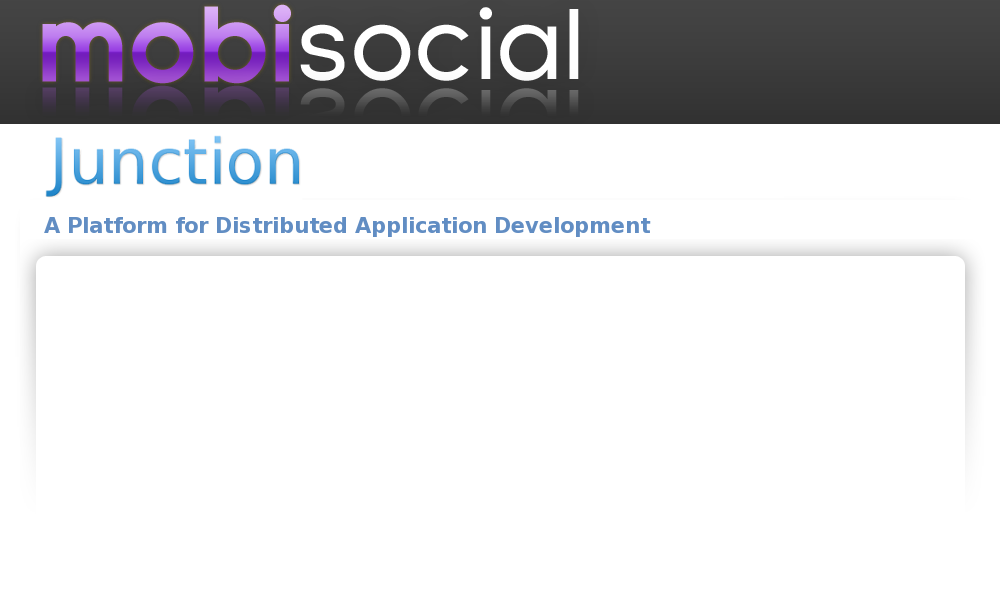
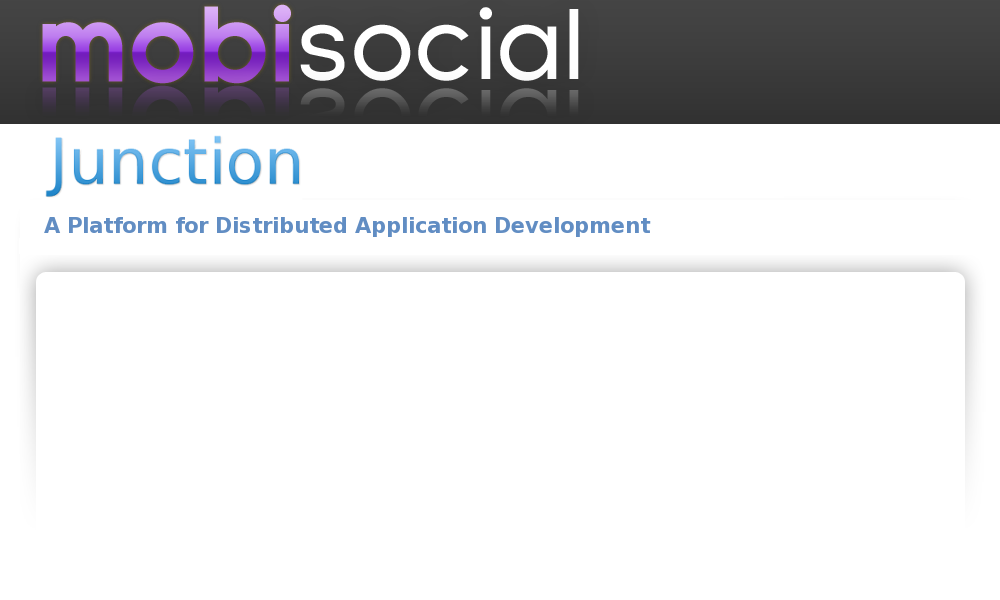
Add buttons.

Changed region(s): [[0.031, 0.39, 0.961, 0.48]]

diff --git a/index.html b/index.html
@@ -17,10 +17,9 @@
       <a href="http://mobisocial.stanford.edu/index.php">Research</a> | <a href="http://mobisocial.stanford.edu/index.php#members">Members</a> | <a href="http://mobisocial.stanford.edu/index.php#publications">Publications</a> | <a href="http://mobisocial.stanford.edu/index.php#software">Software</a>
     </div>
 
-    <div id="buttonTry"><a href=""><img src="assets/button_try.png"/></a></div>
-    <div id="buttonLearn"><a href=""><img src="assets/button_learn.png"/></a></div>
-
     <div class="content">
+      <div id="buttonTry"><a href=""><img src="assets/button_try.png"/></a></div>
+      <div id="buttonLearn"><a href=""><img src="assets/button_learn.png"/></a></div>
 
       <div class="catchphrase">
 	<h2>Develop rich, multi-user applications without writing any server code!</h2>
@@ -47,38 +46,38 @@
 	  <li>Use phones to control a settop box or web-based application.</li>
 	</ul>
       <p>
-	 The Junction platform is open source, and also leverages standards when possible to make developing with Junction even easier. Currently, we have libraries for:
-	 <ul>
-	   <li>iOS (for iPhone and iPad)
-	   <li>Java
-	   <li>Android
-	   <li>Javascript
-	 </ul>
+	The Junction platform is open source, and also leverages standards when possible to make developing with Junction even easier. Currently, we have libraries for:
+	<ul>
+	  <li>iOS (for iPhone and iPad)
+	  <li>Java
+	  <li>Android
+	  <li>Javascript
+	</ul>
       </p>
 
-	<h2>How does it work?</h2>
-	<div id="architecture">
+      <h2>How does it work?</h2>
+      <div id="architecture">
   	<div id="architectureText">
-	<p>
-	Junction uses a <em>switchboard</em> service to allow devices to talk to each other.  The switchboard runs one or more <em>activities</em>, for example a game of poker or a collaborative whiteboard session.
-	</p>
-	<p>
-	A switchboard can be used for any and all activities.  You can host a switchboard yourself or leverage an existing switchboard like ours.  And if you're worried about privacy, it's easy to encrypt your activity's traffic so only your devices know what's going on.
-	</p>
-	<p>Messaging is just one part of writing distributed programs. Junction also helps you:
-	  <ul>
-	    <li>Find devices to share an activity. With a few lines of code, devices can be paired by sharing a link, showing a QR code, or sending an SMS.
-	    <li>Deploy your application. If two users want to play a game, but only one of them has it involved, Junction will prompt the newcomer to download your application automatically.
-	    <li>Manage state.  For more complex applications, Junction includes a system for easily managing objects and state in your distributed program.
-	  </ul>
-	</p>
+	  <p>
+	    Junction uses a <em>switchboard</em> service to allow devices to talk to each other.  The switchboard runs one or more <em>activities</em>, for example a game of poker or a collaborative whiteboard session.
+	  </p>
+	  <p>
+	    A switchboard can be used for any and all activities.  You can host a switchboard yourself or leverage an existing switchboard like ours.  And if you're worried about privacy, it's easy to encrypt your activity's traffic so only your devices know what's going on.
+	  </p>
+	  <p>Messaging is just one part of writing distributed programs. Junction also helps you:
+	    <ul>
+	      <li>Find devices to share an activity. With a few lines of code, devices can be paired by sharing a link, showing a QR code, or sending an SMS.
+	      <li>Deploy your application. If two users want to play a game, but only one of them has it involved, Junction will prompt the newcomer to download your application automatically.
+	      <li>Manage state.  For more complex applications, Junction includes a system for easily managing objects and state in your distributed program.
+	    </ul>
+	  </p>
 	</div>
 	<div id="architectureImg">
           <img src="assets/architecture.png"/>
 	</div>
 	<div id="architectureFooter"> </div>
-	</div>
-	<hr/>
+      </div>
+      <hr/>
 
     </div> <!-- junction -->
 </div>

diff --git a/css/main.css b/css/main.css
@@ -37,15 +37,19 @@ h2
 
 #buttonTry,#buttonLearn{ 
     position: absolute;
-    top: 200px;
+    top: -50px;
+}
+
+#buttonTry img,#buttonLearn img{ 
+    border: none;
 }
 
 #buttonTry{ 
-    left: 400px;
+    left: 640px;
 }
 
-#buttonTry{ 
-    left: 500px;
+#buttonLearn{ 
+    left: 770px;
 }
 
 
